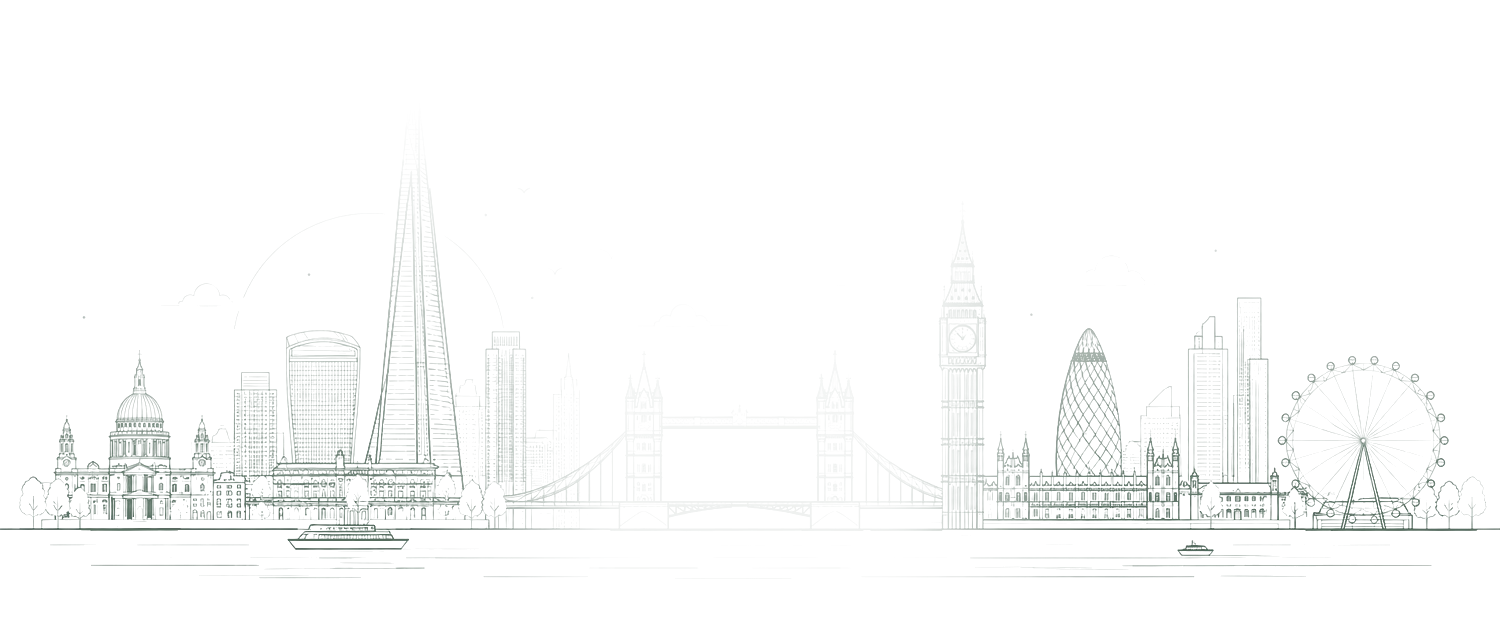
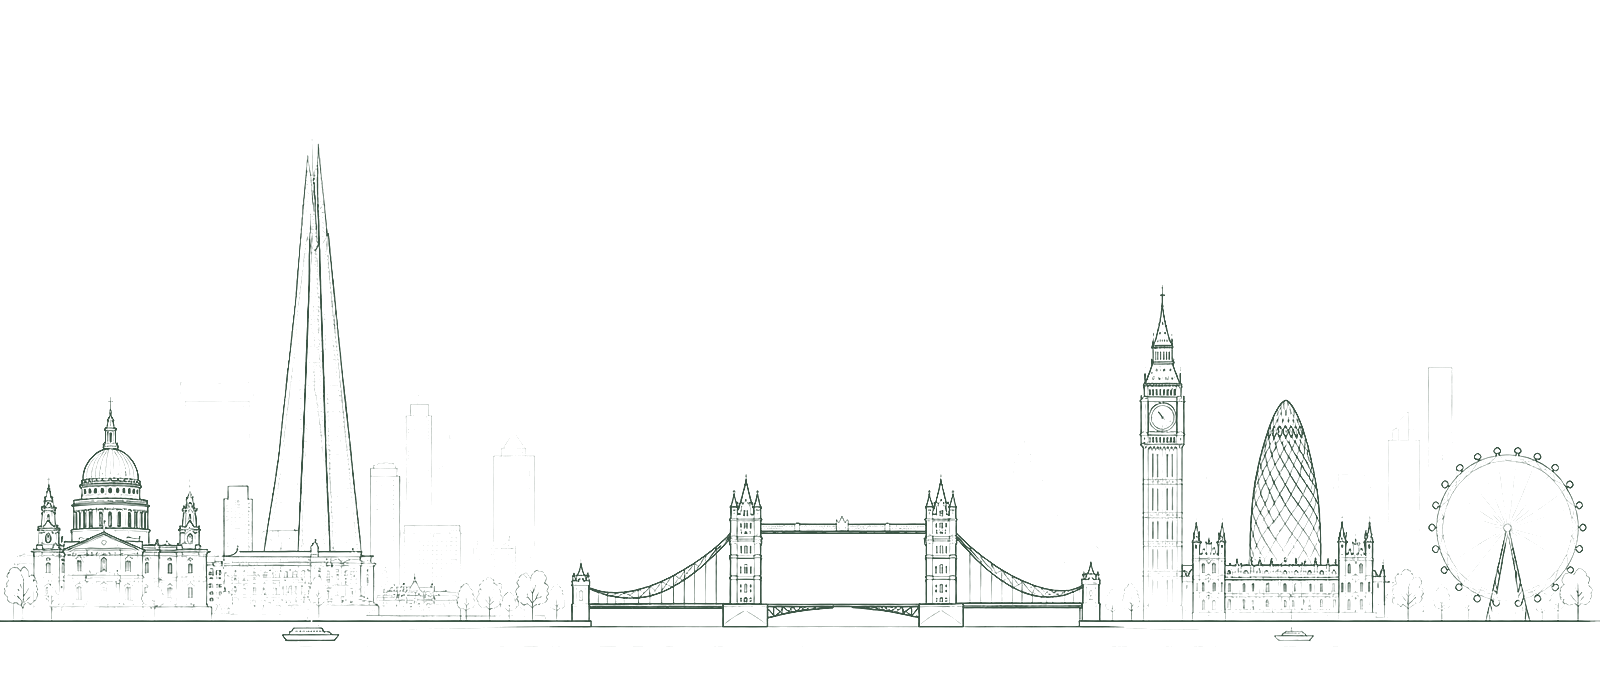
Hero refine: remove eyebrow, lift content, new lighter skyline watermark (CSS mask fade + low opacity), softer glow, a11y focus states, responsive crop
- Removed 'ACCOUNTING & BUSINESS ADVISORY' pill
- Content raised toward top; balanced headline (max-w-880) + paragraph (max-w-790) spacing
- New updated.png skyline keyed to transparent forest-green watermark; opacity 10-15%, vertical mask-image fade (Safari+Chrome), central negative space kept quiet
- Reduced upper-right green glow ~33%, added soft warm glow behind copy
- CTAs: min-h 52-54px, focus-visible rings, stack full-width on mobile
- Mobile: skyline zoomed to fewer landmarks at ~10% opacity, tighter hero height

Changed region(s): [[0.0, 0.2181, 1.0, 0.9346], [0.6133, 0.4984, 0.6747, 0.5919], [0.644, 0.6231, 0.6747, 0.6542]]

diff --git a/src/pages/Home.jsx b/src/pages/Home.jsx
@@ -57,29 +57,40 @@ export default function Home() {
   return (
     <>
       {/* HERO */}
-      <section className="relative overflow-hidden px-6 pb-40 pt-28 md:px-16 md:pb-56 md:pt-32">
-        <div className="pointer-events-none absolute -right-36 -top-36 h-[480px] w-[480px] rounded-full [background:radial-gradient(circle,oklch(80%_0.09_145_/_0.45),transparent_70%)]" />
-        <div className="pointer-events-none absolute -bottom-52 -left-40 h-[420px] w-[420px] rounded-full [background:radial-gradient(circle,oklch(85%_0.06_85_/_0.55),transparent_70%)]" />
+      <section className="relative overflow-hidden px-6 pb-[210px] pt-16 sm:pb-[300px] sm:pt-20 md:px-16 md:pb-[380px] md:pt-24">
+        {/* upper-right green atmospheric glow (subtle) */}
+        <div className="pointer-events-none absolute -right-36 -top-36 h-[460px] w-[460px] rounded-full [background:radial-gradient(circle,oklch(80%_0.09_145_/_0.30),transparent_70%)]" />
+        {/* soft warm glow behind the copy for readability */}
+        <div className="pointer-events-none absolute left-1/2 top-[24%] h-[420px] w-[820px] max-w-[92vw] -translate-x-1/2 rounded-full [background:radial-gradient(ellipse,oklch(98%_0.01_85_/_0.85),transparent_70%)]" />
+
+        {/* London skyline watermark — anchored to bottom, faded via mask, very light */}
         <img
           src="/skyline.webp"
           alt=""
           aria-hidden="true"
-          className="pointer-events-none absolute -bottom-1 left-0 w-full select-none opacity-[0.85]"
+          width="1600"
+          height="685"
+          className="pointer-events-none absolute bottom-0 left-1/2 z-0 w-[165%] max-w-none -translate-x-1/2 select-none opacity-[0.10] sm:left-0 sm:w-full sm:translate-x-0 sm:opacity-[0.13] md:opacity-[0.15]"
+          style={{
+            WebkitMaskImage: "linear-gradient(to bottom, transparent 0%, rgba(0,0,0,0.15) 30%, rgba(0,0,0,0.6) 66%, #000 100%)",
+            maskImage: "linear-gradient(to bottom, transparent 0%, rgba(0,0,0,0.15) 30%, rgba(0,0,0,0.6) 66%, #000 100%)",
+          }}
         />
-        <div className="relative z-10 mx-auto max-w-[780px] text-center">
-          <div className="mb-7 inline-flex items-center gap-2 rounded-full border border-green/25 bg-surface/70 px-4 py-2 text-[13px] font-bold tracking-[0.02em] text-green">
-            <span className="h-[7px] w-[7px] rounded-full bg-dot" /> ACCOUNTING &amp; BUSINESS ADVISORY
-          </div>
-          <h1 className="text-[40px] font-black leading-[1.1] tracking-[-0.03em] text-balance md:text-[54px]">
+
+        <div className="relative z-10 mx-auto max-w-[900px] text-center">
+          <h1 className="mx-auto max-w-[880px] text-[34px] font-black leading-[1.08] tracking-[-0.03em] text-balance sm:text-[42px] md:text-[54px]">
             Helping businesses stay compliant while making smarter financial decisions.
           </h1>
-          <p className="mx-auto mt-6 max-w-[620px] text-[18px] leading-[1.65] text-ink/70">
+          <p className="mx-auto mt-6 max-w-[790px] text-[17px] leading-[1.65] text-ink/70 md:mt-7 md:text-[18px]">
             Eclantis Capital is a boutique accounting and advisory partner for small businesses, contractors and growing
             companies across the UK — with specialist experience supporting UK and UAE cross-border trade.
           </p>
-          <div className="mt-10 flex flex-wrap justify-center gap-4">
-            <BtnPrimary to="/contact">Book a Free Consultation</BtnPrimary>
-            <Link to="/services" className="inline-flex items-center rounded-full border-[1.5px] border-line px-8 py-4 text-[15px] font-bold text-ink transition hover:border-green hover:text-green">
+          <div className="mt-8 flex flex-col items-center justify-center gap-3.5 sm:flex-row md:mt-9">
+            <BtnPrimary to="/contact" className="w-full min-h-[54px] sm:w-auto">Book a Free Consultation</BtnPrimary>
+            <Link
+              to="/services"
+              className="inline-flex min-h-[54px] w-full items-center justify-center rounded-full border-[1.5px] border-line bg-surface/60 px-8 text-[15px] font-bold text-ink transition hover:border-green hover:text-green focus-visible:outline-none focus-visible:ring-2 focus-visible:ring-green focus-visible:ring-offset-2 focus-visible:ring-offset-cream sm:w-auto"
+            >
               Explore Our Services
             </Link>
           </div>

diff --git a/src/ui.jsx b/src/ui.jsx
@@ -109,7 +109,7 @@ export function Eyebrow({ children, className = "" }) {
 
 export function BtnPrimary({ to, children, className = "" }) {
   return (
-    <Link to={to} className={`inline-flex items-center justify-center gap-2 rounded-full bg-green px-8 py-4 text-[15px] font-bold text-cream shadow-[0_8px_24px_oklch(30%_0.07_155_/_0.3)] transition hover:bg-green-soft ${className}`}>
+    <Link to={to} className={`inline-flex min-h-[52px] items-center justify-center gap-2 rounded-full bg-green px-8 py-4 text-[15px] font-bold text-cream shadow-[0_8px_24px_oklch(30%_0.07_155_/_0.3)] transition hover:bg-green-soft focus-visible:outline-none focus-visible:ring-2 focus-visible:ring-green focus-visible:ring-offset-2 focus-visible:ring-offset-cream active:brightness-95 ${className}`}>
       {children}
     </Link>
   )